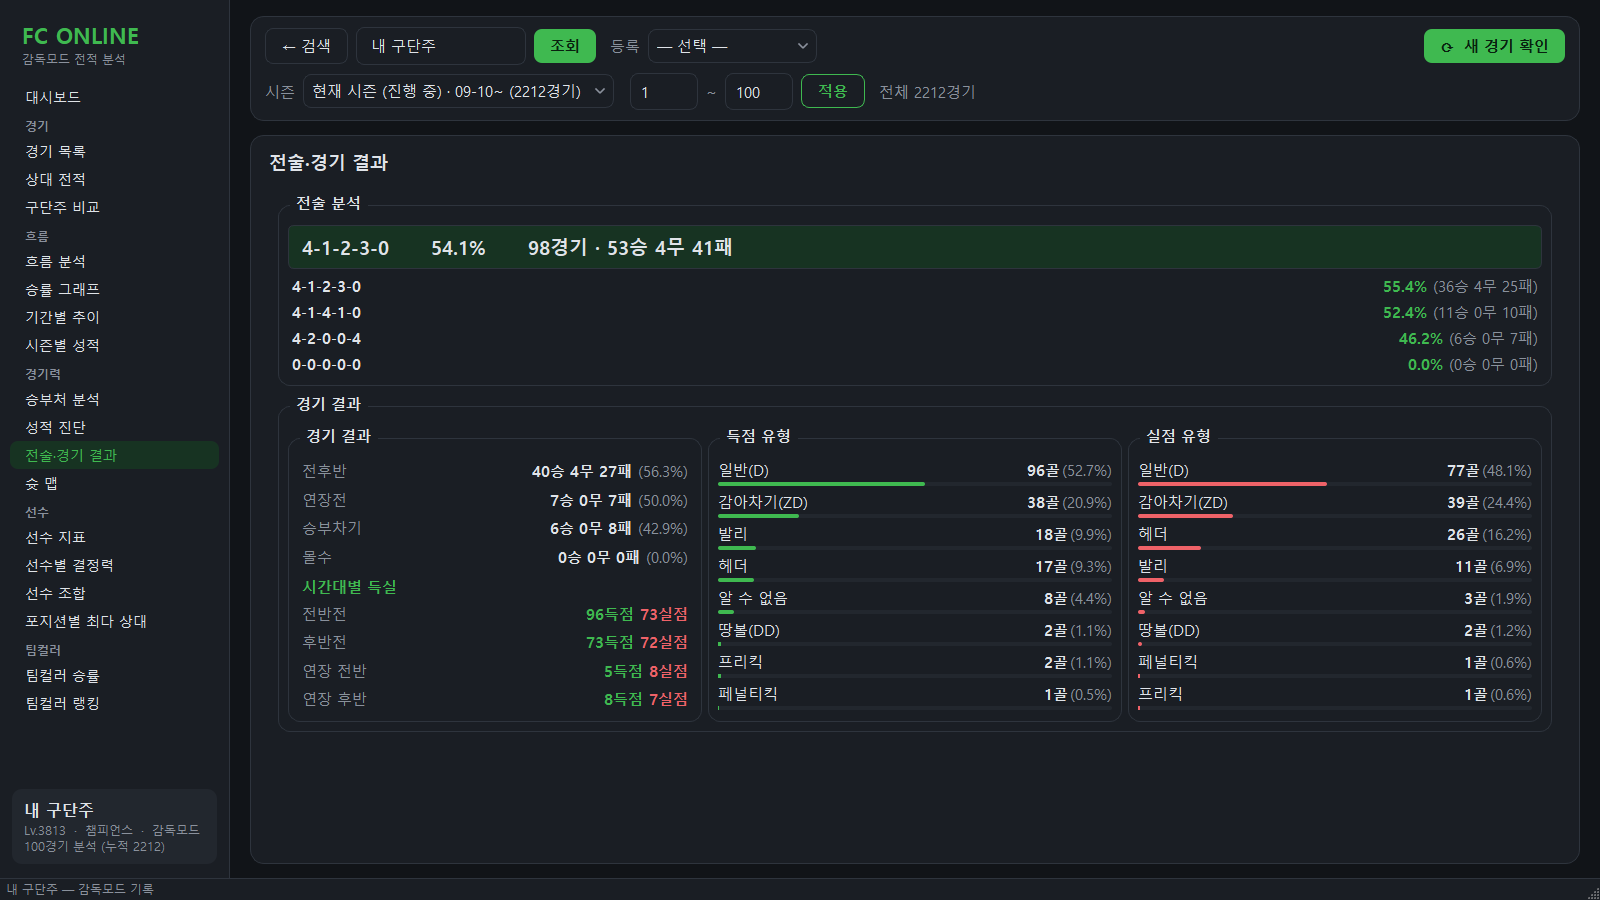
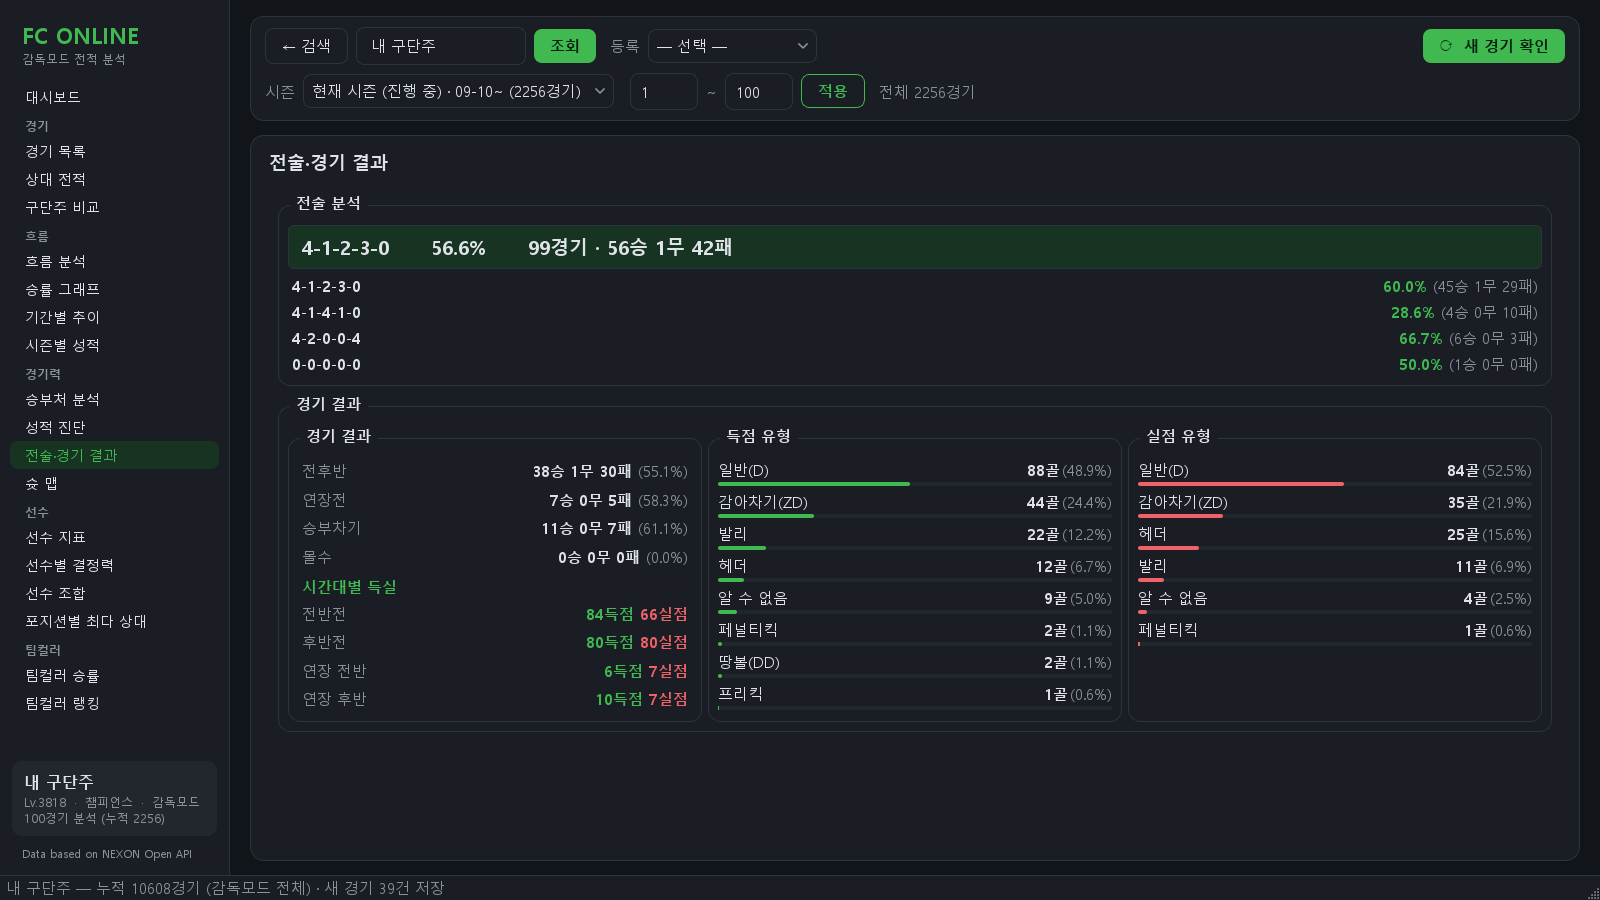
README 스크린샷을 지금 화면으로 다시 찍고, 시즌별 성적을 한 장 더한다
1ee2879 이후 대시보드가 바뀌었다(시즌 승률·결과 점 20경기·평균선/최고·최저·
자주 만난 상대 시즌 범위)와 출처 표기가 생겨 6장을 다시 찍었다. 2026-08-05 계획
4번(시즌 탭)은 그땐 시즌이 하나뿐이라 미뤘는데 지금은 셋이라 같이 넣는다.

창을 띄우지 않고(QT_QPA_PLATFORM=offscreen + 글꼴 폴더) 앱 모듈을 직접 구동해
grab() 했다 — 사용자가 1번 모니터에서 게임 중이라 어느 모니터에도 창·포커스 변화가
없게. 실데이터(최근 검색 계정 10,608경기)를 MatchLoader.run() 으로 받아 화면에
넣기 전에 메모리에서만 익명화(내 구단주 · 상대 6,532명 → 상대N). 최근 검색 칩이
보이는 검색 화면은 찍지 않았고, 7장을 하나씩 열어 닉네임이 없는 것을 확인했다.

README 기능 표의 대시보드 줄도 "최근 10경기"에서 지금 내용으로.

diff --git a/README.md b/README.md
@@ -29,7 +29,7 @@
 | 선수 조합 | 함께 선발로 나온 선수쌍별 승률 — 잘 맞는/안 맞는 조합 |
 | 슛 맵 | 슛 좌표를 하프 피치에 시각화(내 슛 / 상대 슛 실점 위치) |
 | 선수 카드 | 능력치·특성·시세·클럽경력 + 강화단계·적응도·팀컬러 시뮬레이터 |
-| 대시보드 | 지표 4개(승률·승무패 도넛·득실·연속) · 랭커 카드 · 승률 흐름 곡선 + 최근 10경기 · 나 vs 상대 평균 레이더 · 승부처 게이지 · 15분 득실 막대 · 흐름 분석 3줄 · 시간대 승률 · 자주 만난 상대. 카드마다 상세 메뉴와 같은 범위를 세고(구석에 표기), 누르면 그 메뉴로 간다 |
+| 대시보드 | 지표 4개(시즌 승률 + 최근 20경기와의 차이·승무패 도넛·득실·연속) · 랭커 카드 · 승률 흐름 곡선(평균선·최고/최저) + 최근 20경기 · 나 vs 상대 평균 레이더 · 승부처 게이지 · 15분 득실 막대 · 흐름 분석 3줄 · 시간대 승률 · 자주 만난 상대. 카드마다 상세 메뉴와 같은 범위를 세고(구석에 표기), 누르면 그 메뉴로 간다 |
 
 ## 화면
 
@@ -45,7 +45,7 @@
 |---|---|
 | **선수 지표** — 포지션별 출전·평점·공수 지표(공식 미제공 값 역산)<br>![선수 지표](docs/screenshots/players.png) | **슛 맵** — 슛 좌표를 하프 피치에 시각화(골/유효슛/빗나감)<br>![슛 맵](docs/screenshots/shotmap.png) |
 | **전술·경기 결과** — 상대 포메이션별 승률, 득·실점 유형<br>![전술·경기 결과](docs/screenshots/tactics.png) | **승률 그래프** — 기간별 승률·등급(디비전) 계단 그래프<br>![승률 그래프](docs/screenshots/trend.png) |
-| **승부처 분석** — 선제골 승률, 시간 구간별 득실, 시각대별 승률<br>![승부처 분석](docs/screenshots/clutch.png) | |
+| **승부처 분석** — 선제골 승률, 시간 구간별 득실, 시각대별 승률<br>![승부처 분석](docs/screenshots/clutch.png) | **시즌별 성적** — 감독모드 랭킹 시즌별 전적·승률·평균 득실(진행 중 시즌 포함)<br>![시즌별 성적](docs/screenshots/seasons.png) |
 
 ## 받아서 쓰기 (exe)
 
